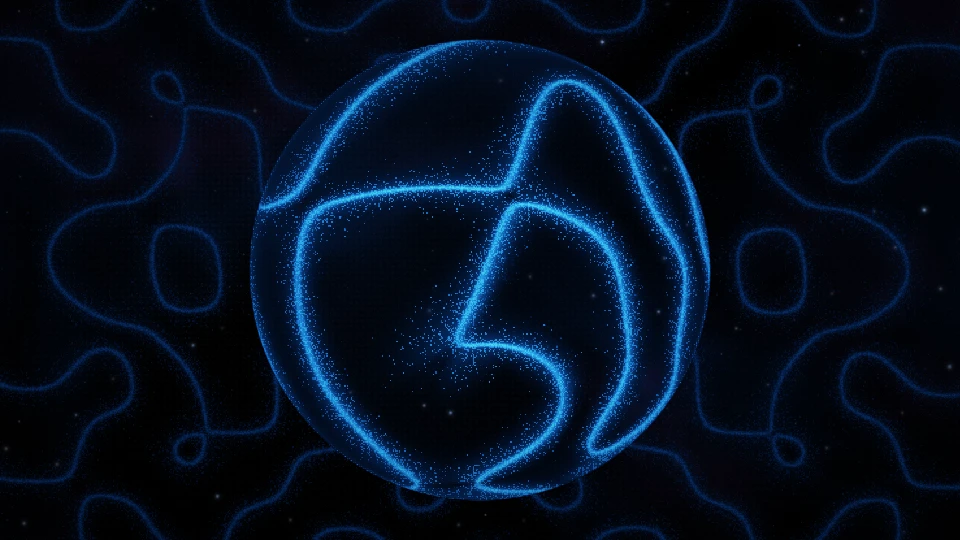
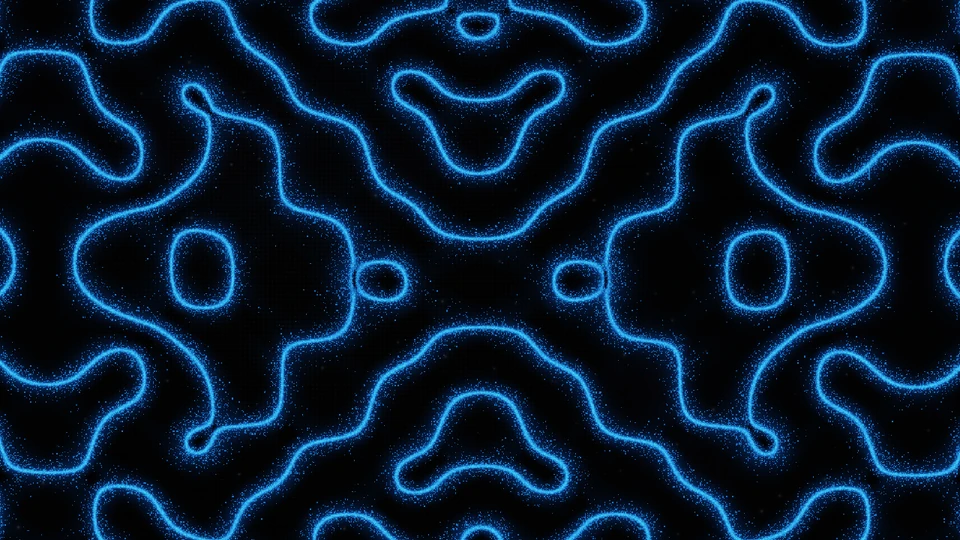
Fix flaky About test; Harmonics defaults

diff --git a/src/shared/catalog.js b/src/shared/catalog.js
@@ -84,7 +84,7 @@ export const SCENES = {
       { key: 'mode', label: 'Mode', type: 'combo', value: 'cymatics', options: [['lissajous', 'Lissajous'], ['cymatics', 'Cymatics']] },
       { key: 'family', label: 'Shape', type: 'combo', value: 'silk', options: [['silk', 'Silk fold'], ['knot', 'Orbital knot'], ['bloom', 'Harmonic bloom'], ['veil', 'Ethereal veil'], ['cycle', 'Slowly cycle all']], when: ['mode', 'lissajous'] },
       pct('density', 'Strand density', 60, { when: ['mode', 'lissajous'] }),
-      { key: 'plate', label: 'Plate', type: 'combo', value: 'circle', options: [['square', 'Full screen'], ['circle', 'Sphere']], when: ['mode', 'cymatics'] },
+      { key: 'plate', label: 'Plate', type: 'combo', value: 'square', options: [['square', 'Full screen'], ['circle', 'Sphere']], when: ['mode', 'cymatics'] },
       pct('grain', 'Sand grain', 55, { when: ['mode', 'cymatics'] }),
       { key: 'palette', label: 'Colour', type: 'combo', value: 'blue', options: [['blue', 'Blue'], ['rgb', 'RGB (reacts to music)'], ['white', 'Pure white'], ['silver', 'Silver'], ['ice', 'Ice blue'], ['cobalt', 'Cobalt'], ['violet', 'Violet'], ['cherry', 'Cherry'], ['forest', 'Forest'], ['amber', 'Amber'], ['custom', 'Custom colour']] },
       { key: 'color', label: 'Custom colour', type: 'color', value: '#8fb6ff', when: ['palette', 'custom'] },

diff --git a/src/renderer/scenes/lissajous.js b/src/renderer/scenes/lissajous.js
@@ -294,10 +294,12 @@ vec3 sand(float f, vec2 px, float width) {
 
 void main() {
   vec2 px = vUv * uRes, asp = vec2(uRes.x / uRes.y, 1.0);
-  vec2 jitter = uShake * vec2(hash(floor(vec2(uTime * 37.0))) - 0.5, hash(floor(vec2(uTime * 41.0)) + 3.0) - 0.5) * 0.015;
+  vec2 jitter = uShake * vec2(hash(floor(vec2(uTime * 37.0))) - 0.5, hash(floor(vec2(uTime * 41.0)) + 3.0) - 0.5) * vec2(0.0045, 0.015);              // beat jitter: barely any sideways shake
   vec2 p = ((vUv - 0.5) * 2.0 * asp) * uScale;                       // full-screen plate; pitch sets the scale
   // smooth warp: bends the existing lines (never adds new ones, so nothing overlaps)
-  p += uWarp * vec2(sin(p.y * 2.3 + uWarpPh) + 0.5 * sin(p.y * 4.1 - uWarpPh * 1.3), cos(p.x * 1.9 - uWarpPh * 0.8) + 0.5 * cos(p.x * 3.7 + uWarpPh));
+  // The sideways part is kept small (it read as an obnoxious left-right wobble at full strength);
+  // the vertical bending carries the morph.
+  p += uWarp * vec2(0.15 * (sin(p.y * 2.3 + uWarpPh) + 0.5 * sin(p.y * 4.1 - uWarpPh * 1.3)), cos(p.x * 1.9 - uWarpPh * 0.8) + 0.5 * cos(p.x * 3.7 + uWarpPh));
   p += jitter;
   vec3 flatSand = sand(plateField(p), px, uWidth);
   if (uSphere < 0.5) { o = vec4(flatSand * 0.9, 1.0); return; }

diff --git a/tests/browser/studio.spec.js b/tests/browser/studio.spec.js
@@ -64,6 +64,10 @@ test('Widget shortcuts work after layer selection and protect text fields',async
 test('About has creator attribution, keyboard bird interaction and no glass panels',async({page})=>{
  await page.goto('/index.html');await page.waitForFunction(()=>window.silkReady===true);
  await page.locator('[data-tab="about"]').click();
+ // Tab changes fade out and swap pages ~140 ms later; the bird only wakes up once About is the
+ // visible page. Wait for that, or on a fast machine focus() hits a still-hidden page and the Enter
+ // key goes nowhere (this was the flaky CI failure).
+ await expect(page.locator('#about')).toBeVisible();
  await expect(page.locator('.about-creator')).toContainText('Rajveer');
  await expect(page.locator('#about .glass')).toHaveCount(0);
  await page.locator('#aboutBird').focus();await page.keyboard.press('Enter');

diff --git a/playwright.config.js b/playwright.config.js
@@ -1,6 +1,7 @@
 import { defineConfig } from '@playwright/test';
 export default defineConfig({
   testDir: './tests/browser', timeout: 30000, workers: 1,
+  retries: process.env.CI ? 2 : 0, // shared CI runners are noisy; a retried pass shows up as "flaky" in the report
   use: { baseURL: 'http://127.0.0.1:5173', viewport: { width: 1280, height: 820 }, deviceScaleFactor: 2,
     screenshot: 'only-on-failure', trace: 'retain-on-failure',
     launchOptions: { ...(process.env.SILK_BROWSER_PATH ? { executablePath: process.env.SILK_BROWSER_PATH } : {}), args: ['--enable-unsafe-swiftshader'] } },

diff --git a/src/shared/preview-policy.js b/src/shared/preview-policy.js
@@ -1,7 +1,7 @@
 // What a simulation preview depends on. Pure, so it is unit-tested (tests/previews.test.cjs).
 import { defaults, schemaFor } from './catalog.js';
 
-export const PREVIEW_VERSION = 'p2';
+export const PREVIEW_VERSION = 'p3';
 export const PREVIEW_MAX_WIDTH = 960;   // a card never needs more; keeps every simulation step cheap
 export const HERO_MAX_WIDTH = 2560;     // the full-width Library hero renders at its real size
 

diff --git a/UPDATE-1.0.0.md b/UPDATE-1.0.0.md
@@ -95,3 +95,15 @@
 - "Pause screens that are covered" and "Hibernate when every screen is covered" are now off by default (existing installs keep their current choice).
 - Living Silk no longer reacts to sound: its speed, glow and beat ripples are steady. The cursor still
   disturbs it.
+- CI fix: the "About has creator attribution, keyboard bird interaction" browser test was flaky (it
+  failed on the v1.0.0 tag run and passed on main for the same commit). Tab changes fade out and
+  swap pages ~140 ms later, and the bird only wakes up once About is the visible page; the test
+  focused the bird without waiting for that, so on a fast runner the Enter key went to a hidden
+  page. The test now waits for About to be visible. Reproduced by stretching the fade to 900 ms
+  (the test failed with the exact CI error), then verified passing under the same condition.
+  playwright.config.js also retries failed tests twice on CI, so a one-off hiccup on a noisy runner
+  shows up as "flaky" in the report instead of blocking a release.
+- Harmonics: the default plate is now Full screen (it was Sphere). The sideways part of the cymatics
+  warp is cut to ~1/7 (it swayed lines up to ~100 px left-right at 1080p on loud passages) and the
+  beat jitter is almost purely vertical; the vertical morph is unchanged. The card thumbnail is
+  re-rendered to match, and cached previews are refreshed (PREVIEW_VERSION p3).
